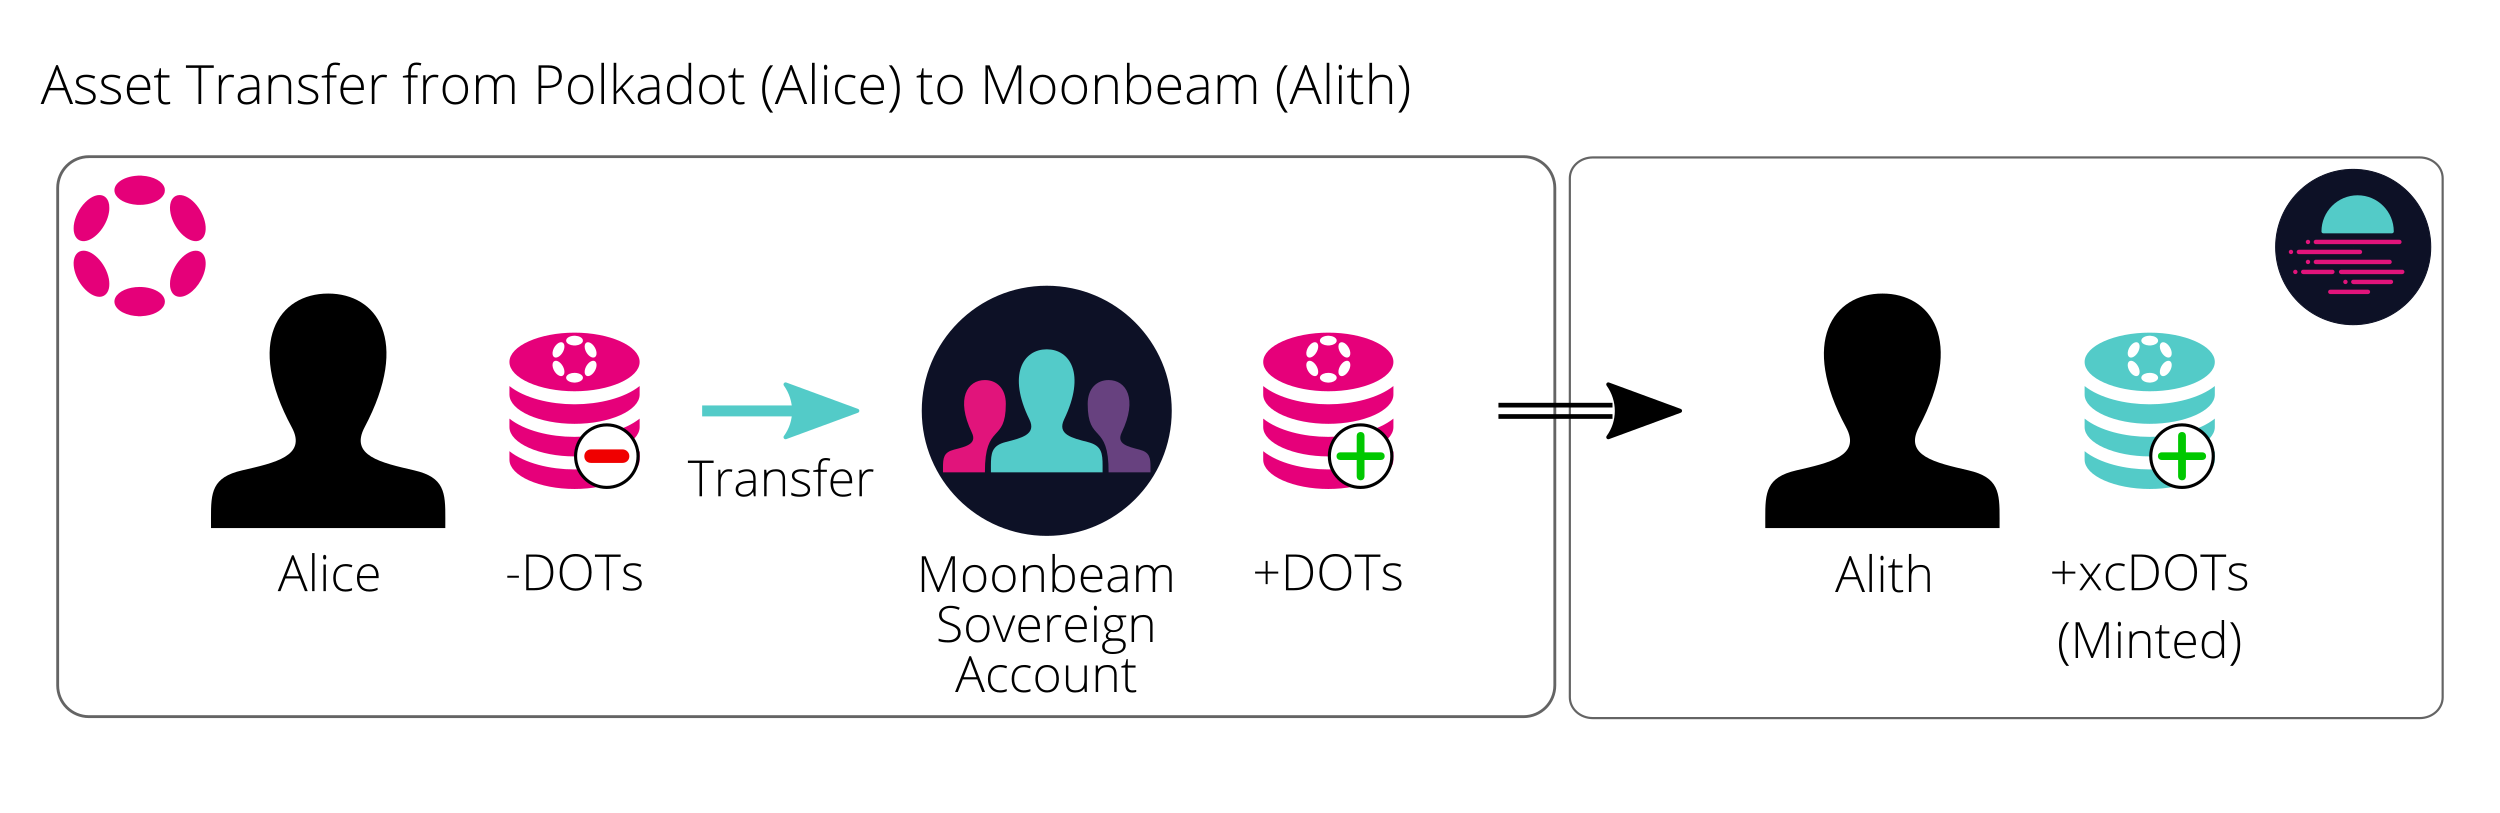
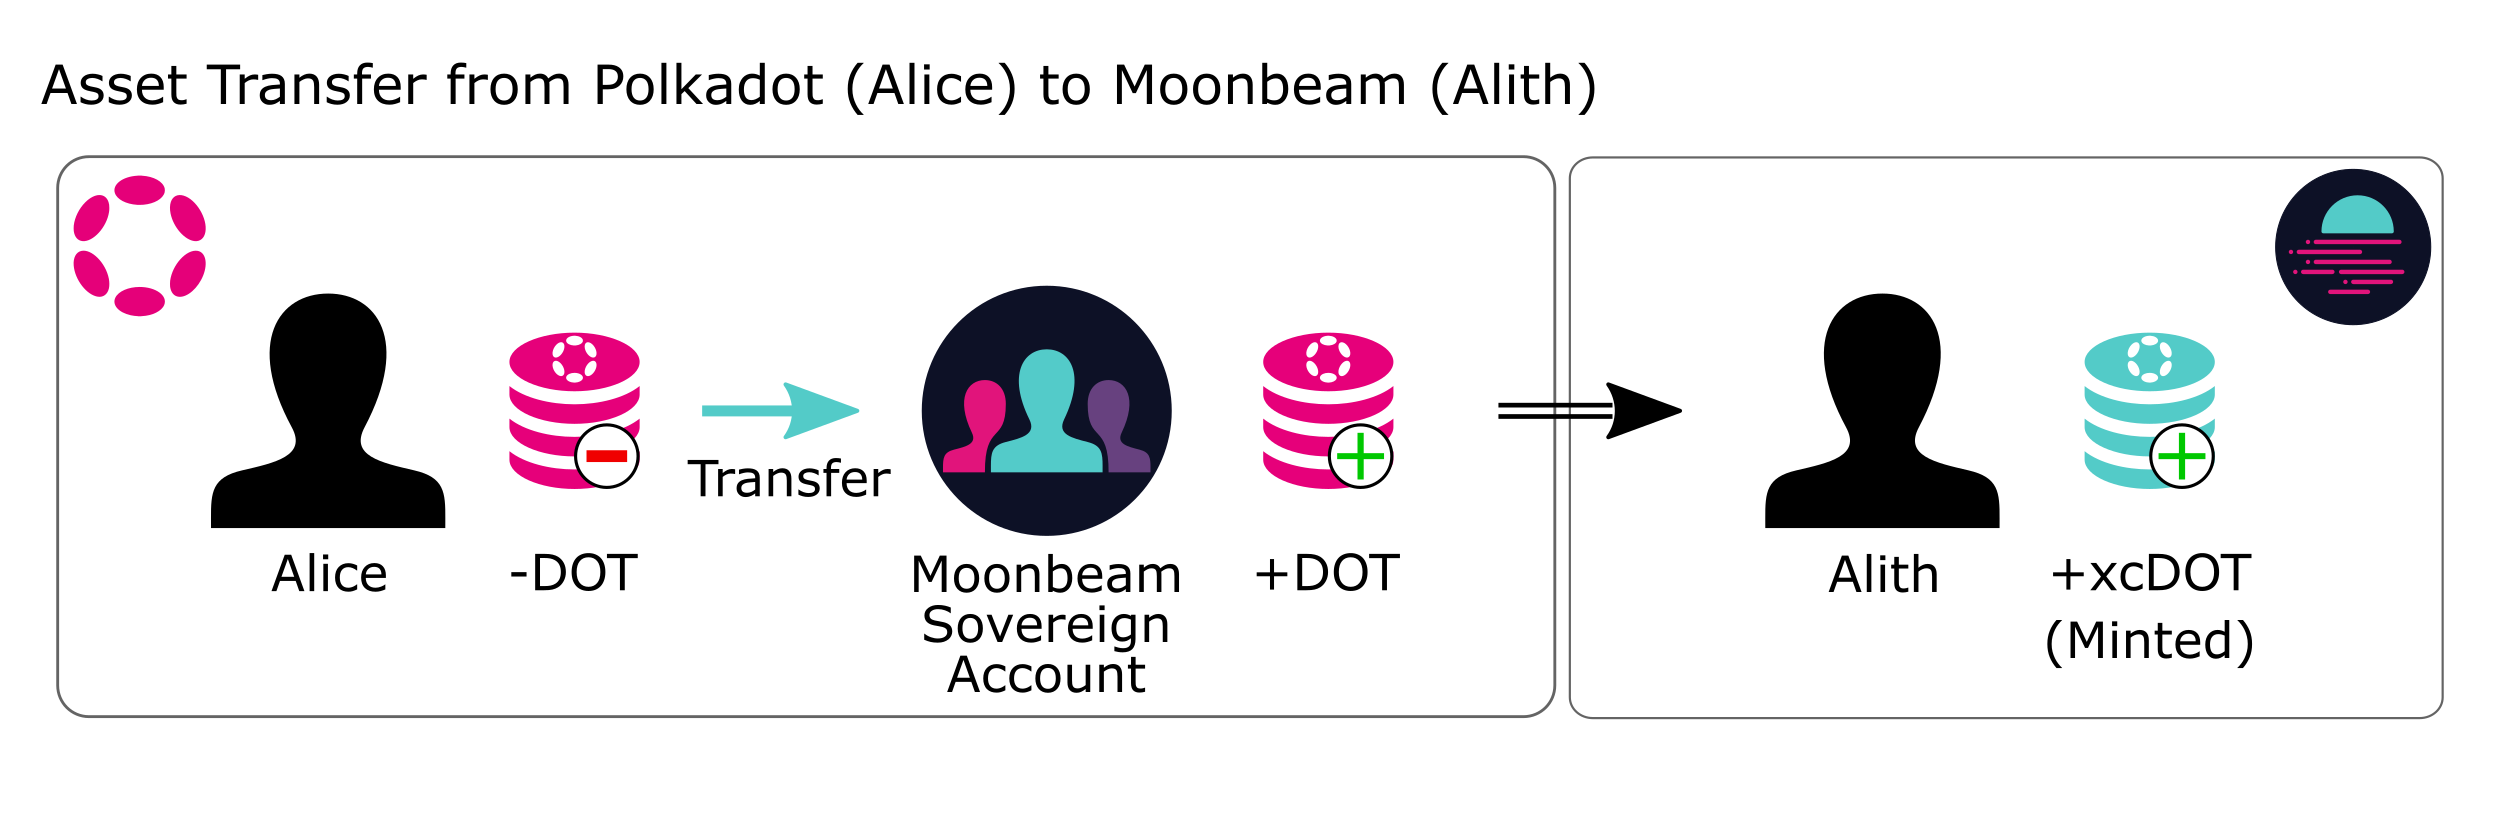
update token terminology

diff --git a/builders/xcm/overview.md b/builders/xcm/overview.md
@@ -133,11 +133,11 @@ As Moonbeam is a parachain within the Polkadot ecosystem, XCM + VMP allows DOT t
 
 Once a project is onboarded as a parachain it automatically has a bi-directional communication channel with the relay chain. Therefore, there is no need for chain registration. However, the relay chain native token needs to be registered on the parachain.
 
-Alice (Polkadot) wants to transfer a certain amount of DOTs from Polkadot to her account on Moonbeam, named Alith. Therefore, she initiates an XCM that expresses her intentions. For such transfers, Moonbeam owns a sovereign account on Polkadot.
+Alice (Polkadot) wants to transfer a certain amount of DOT from Polkadot to her account on Moonbeam, named Alith. Therefore, she initiates an XCM that expresses her intentions. For such transfers, Moonbeam owns a sovereign account on Polkadot.
 
-Consequently, the XCM message execution on Polkadot will transfer the amount of DOTs to Moonbeam's sovereign account on Polkadot. Once the assets are deposited, the second part of the message is sent to Moonbeam.
+Consequently, the XCM message execution on Polkadot will transfer the amount of DOT to Moonbeam's sovereign account on Polkadot. Once the assets are deposited, the second part of the message is sent to Moonbeam.
 
-Moonbeam will locally execute the action the XCM message is programmed to do. In this case, it is to mint and transfer the same amount of _xcDOTs_ (cross-chain DOTs) to the account defined by Alice, which in this case is Alith. The fee to execute the XCM in the target parachain is paid in the asset being transferred (_xcDOTs_ for this example).
+Moonbeam will locally execute the action the XCM message is programmed to do. In this case, it is to mint and transfer the same amount of _xcDOT_ (cross-chain DOT) to the account defined by Alice, which in this case is Alith. The fee to execute the XCM in the target parachain is paid in the asset being transferred (_xcDOT_ for this example).
 
 ![Transfers from the Relay Chain to Moonbeam](/images/builders/xcm/overview/overview-5.png)
 
@@ -145,13 +145,13 @@ Note the following:
 
 - Alice and Alith accounts can be different. For example, Polkadot's accounts are SR25519 (or ED25519), while Moonbeam's are ECDSA (Ethereum styled) accounts. They can also have different owners
 - There is a certain degree of trust, where one chain relies on the other to execute its part of the XCM message. This is programmed at a runtime level, so that it can be easily verified
-- For this example, cross-chain DOTs (_xcDOTS_) are a wrapped representation of the original DOTs being held in Moonbeam's sovereign account on Polkadot. _xcDOTs_ can be transferred within Moonbeam at any time, and they can be redeemed for DOTs on a 1:1 basis as well
+- For this example, cross-chain DOT (_xcDOTS_) are a wrapped representation of the original DOT being held in Moonbeam's sovereign account on Polkadot. _xcDOT_ can be transferred within Moonbeam at any time, and they can be redeemed for DOT on a 1:1 basis as well
 
-Alith deposited her _xcDOTs_ in a liquidity pool. Next, Charleth acquires some _xcDOTs_ by swapping against that liquidity pool, and he wants to transfer some _xcDOTs_ to Charley's Polkadot account. Therefore, he initiates an XCM that expresses his intentions.
+Alith deposited her _xcDOT_ in a liquidity pool. Next, Charleth acquires some _xcDOT_ by swapping against that liquidity pool, and he wants to transfer some _xcDOT_ to Charley's Polkadot account. Therefore, he initiates an XCM that expresses his intentions.
 
-Consequently, the XCM message execution on Moonbeam will burn the number of _xcDOTs_. Once the assets are burned, the second part of the message is sent to Polkadot.
+Consequently, the XCM message execution on Moonbeam will burn the number of _xcDOT_. Once the assets are burned, the second part of the message is sent to Polkadot.
 
-Polkadot will execute the action the XCM message is programmed to do locally. In this case, it is to transfer the same amount of _xcDOTs_ burned from the Moonbeam sovereign account to the account defined by Charleth, which in this case is Charley.
+Polkadot will execute the action the XCM message is programmed to do locally. In this case, it is to transfer the same amount of _xcDOT_ burned from the Moonbeam sovereign account to the account defined by Charleth, which in this case is Charley.
 
 ![Transfers Back from Moonbeam to the Relay Chain](/images/builders/xcm/overview/overview-6.png)
 
@@ -161,10 +161,10 @@ As Moonbeam is a parachain within the Polkadot ecosystem, XCM + XCMP allows asse
 
 The first requirement is that a channel between the parachains must exist, and the asset being transferred must be registered in the target parachain. Only when both conditions are met can XCMs be sent between parachains.
 
-Then, when Alith (Moonbeam) transfers a certain amount of GLMRs from Moonbeam to another account (Alice) in a target parachain, tokens are sent to a sovereign Account owned by that target parachain on Moonbeam.
+Then, when Alith (Moonbeam) transfers a certain amount of GLMR from Moonbeam to another account (Alice) in a target parachain, tokens are sent to a sovereign Account owned by that target parachain on Moonbeam.
 
-As the XCM message is executed in the target parachain, it is expected that this will mint and transfer the same amount of _xcGLMRs_ (cross-chain GLMRs) to the account defined by Alith, which in this case is Alice. The fee to execute the XCM in the target parachain is paid in the transferred asset (_xcGLMRs_ for this example).
+As the XCM message is executed in the target parachain, it is expected that this will mint and transfer the same amount of _xcGLMR_ (cross-chain GLMR) to the account defined by Alith, which in this case is Alice. The fee to execute the XCM in the target parachain is paid in the transferred asset (_xcGLMR_ for this example).
 
 ![Transfers from Moonbeam to another Parachain](/images/builders/xcm/overview/overview-7.png)
 
-As explained in the previous section, the process is similar for _xcGLMRs_ to move back to Moonbeam. First, the XCM message execution burns the number of _xcGLMRs_ returned to Moonbeam. Once burned, the remnant part of the message is sent to Moonbeam via the relay chain. Moonbeam will locally execute the XCM message's, and transfer GLMRs (the same amount of burned _xcGLMRs_) from the target parachain sovereign account to the specified address.
+As explained in the previous section, the process is similar for _xcGLMR_ to move back to Moonbeam. First, the XCM message execution burns the number of _xcGLMR_ returned to Moonbeam. Once burned, the remnant part of the message is sent to Moonbeam via the relay chain. Moonbeam will locally execute the XCM message's, and transfer GLMR (the same amount of burned _xcGLMR_) from the target parachain sovereign account to the specified address.
